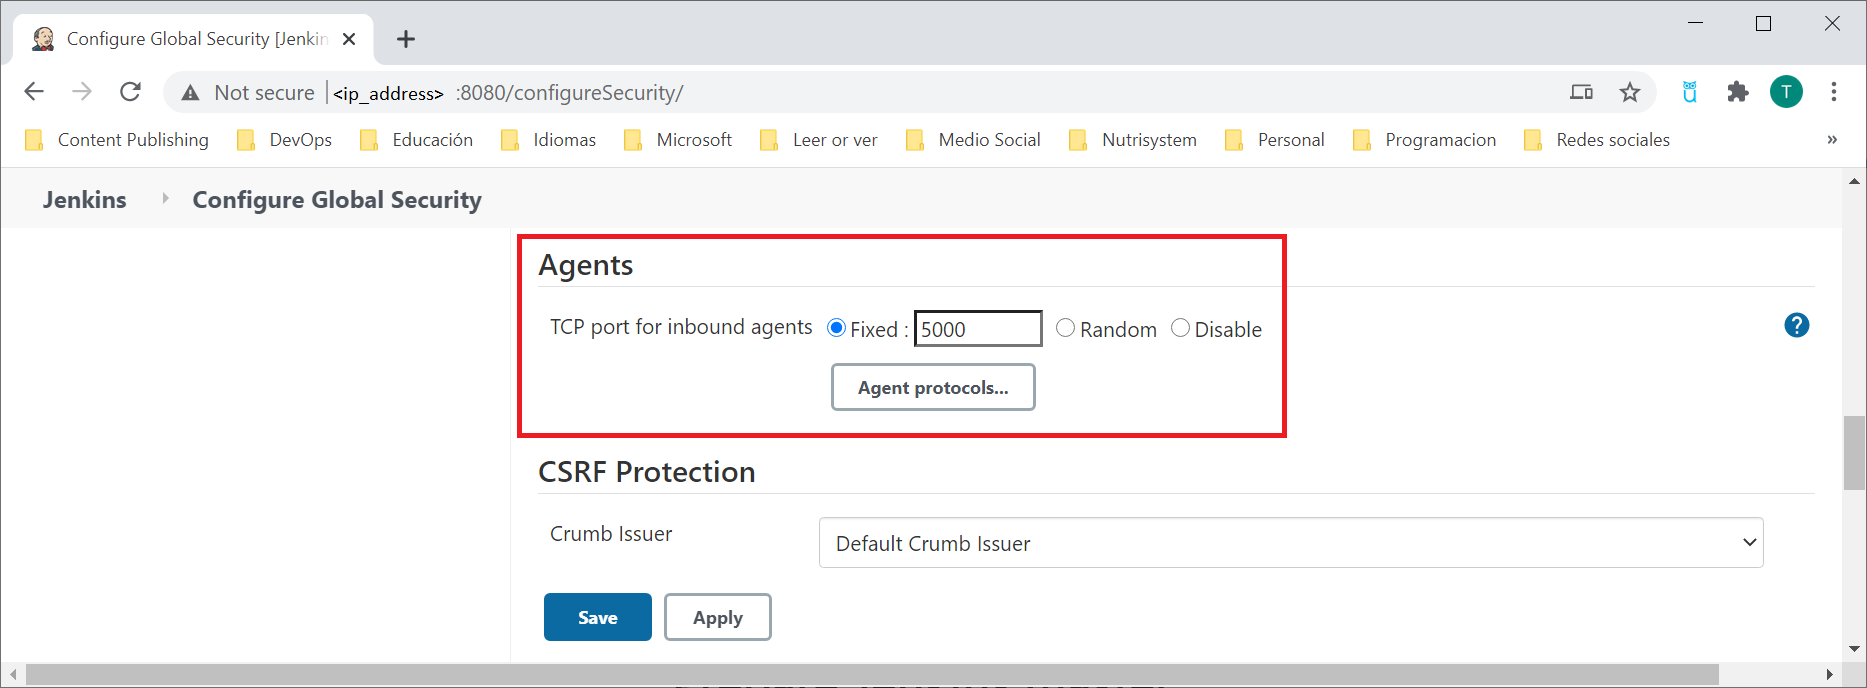
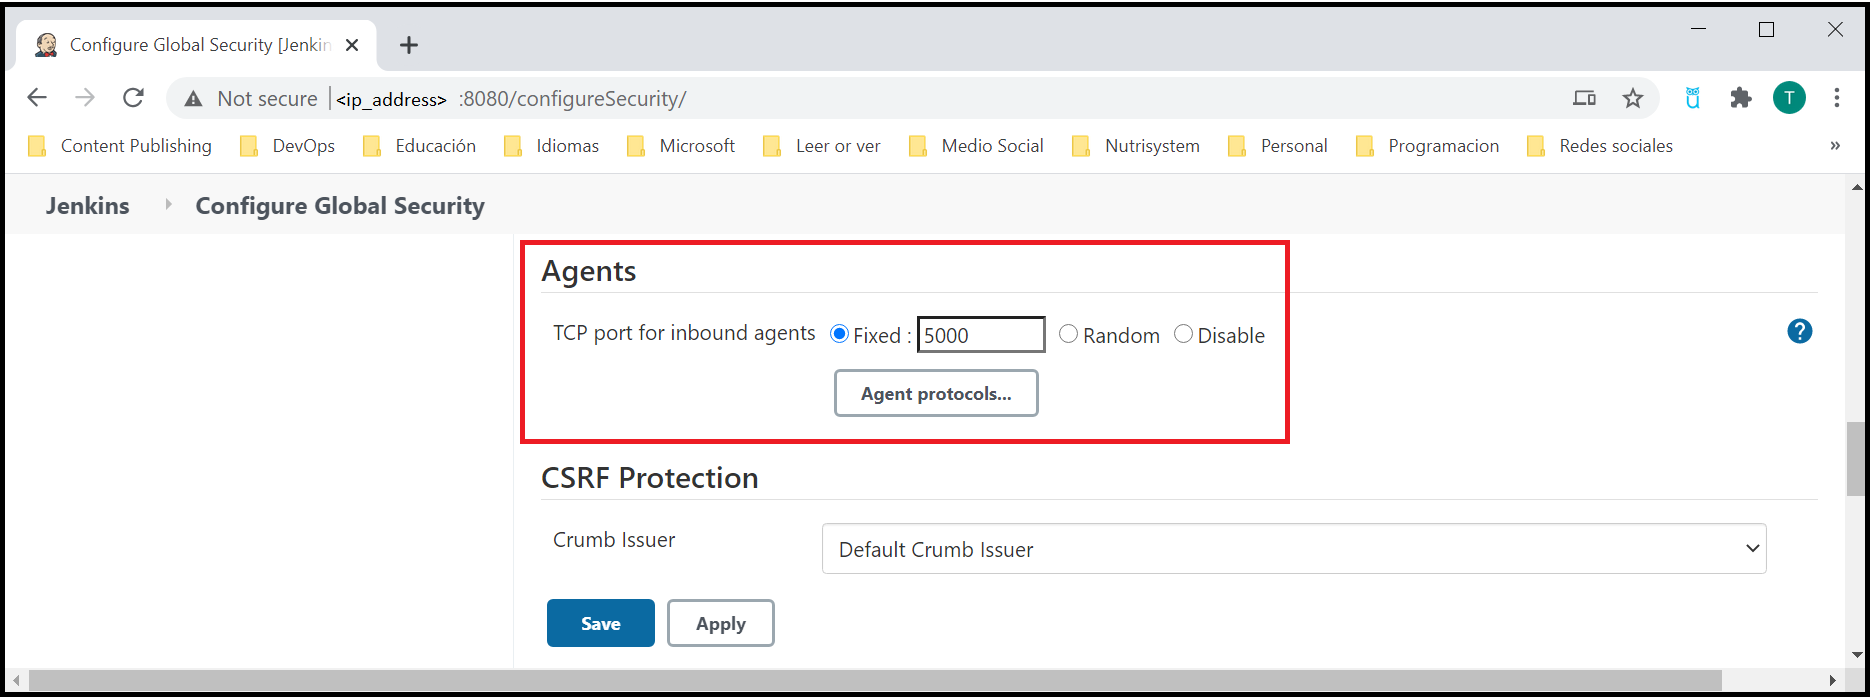
ACI article image fixes

diff --git a/articles/jenkins/azure-container-instances-as-jenkins-build-agent.md b/articles/jenkins/azure-container-instances-as-jenkins-build-agent.md
@@ -44,7 +44,7 @@ For more information on Azure Container Instances, see [About Azure Container In
 1. Under **Agents**, specify **Fixed** port and enter the appropriate port number for your environment.
 
     Configuration example:
-    ![Configure TCP port](./media/azure-container-instances-as-jenkins-build-agent/agent_-ort.png)
+    ![Configure TCP port](./media/azure-container-instances-as-jenkins-build-agent/agent-port.png)
 
 1. Select **Save**.
 
